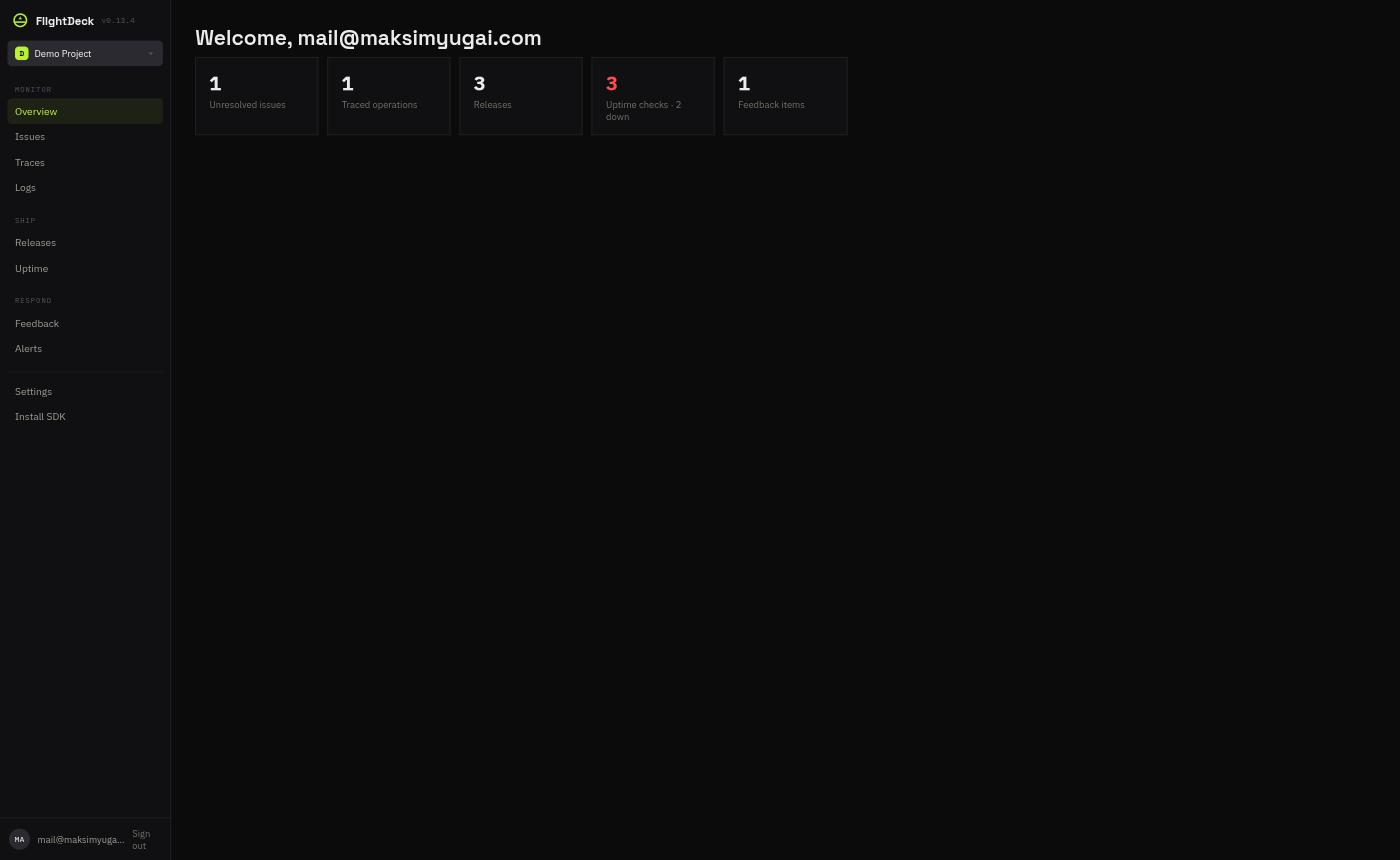
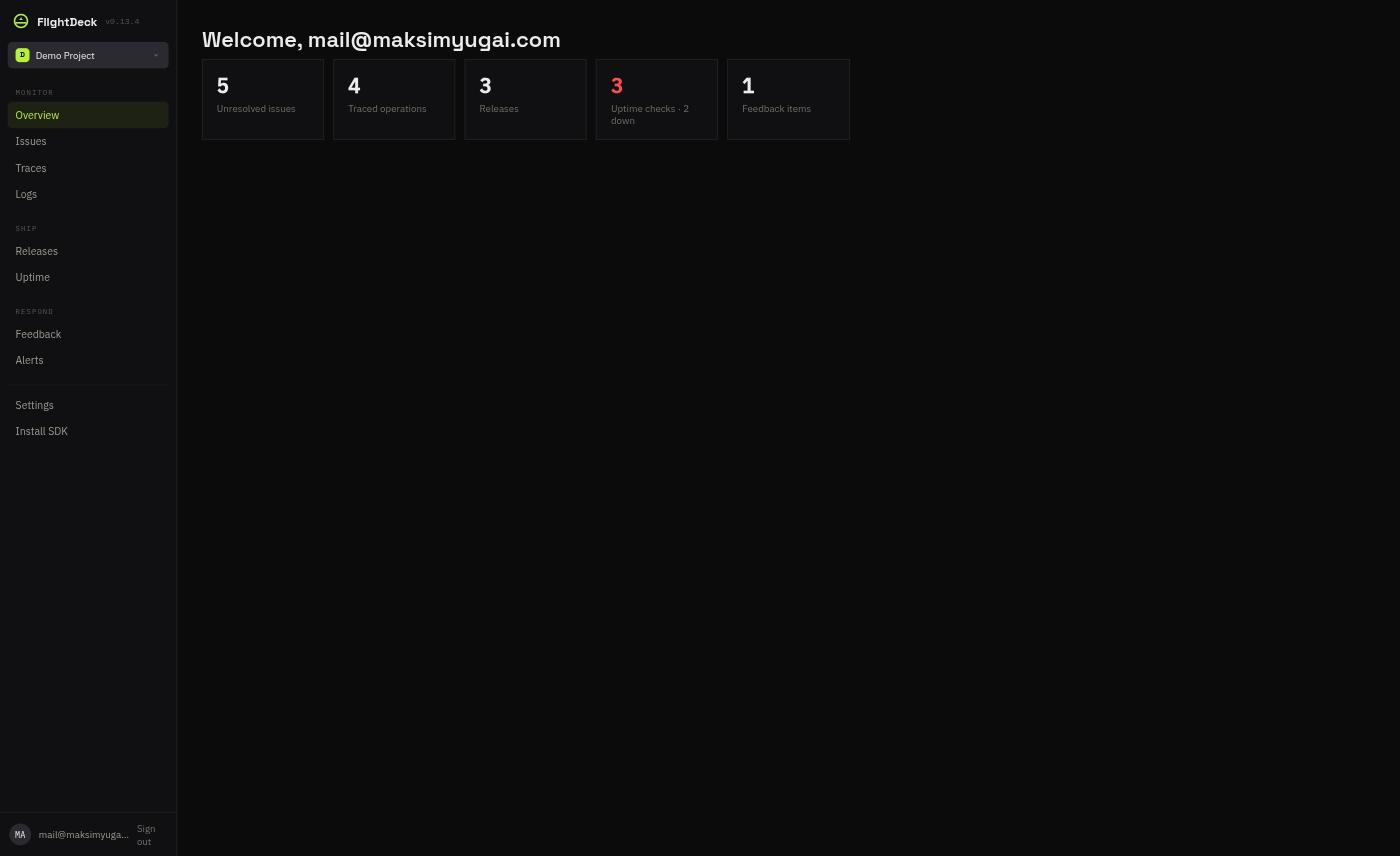
docs: refresh screenshots with richer demo data, add Issues/Traces shots
Seeded the Demo Project with realistic sample errors and transactions via
the real envelope ingest API (not fake frontend copy, not direct DB writes)
so the screenshots show the product actually grouping/aggregating real
data, not a near-empty dashboard. Expanded from 2 to 4 screenshots
(Overview, Issues, Traces list, Trace waterfall) in a 2x2 grid.

diff --git a/README.md b/README.md
@@ -20,9 +20,11 @@ Cloudflare Access.
 
 ## Screenshots
 
-| Overview                                                                       | Trace waterfall                                                                    |
+| Overview                                                                       | Issues                                                                             |
 | ------------------------------------------------------------------------------ | ---------------------------------------------------------------------------------- |
-| <img src="docs/screenshots/overview.jpg" width="420" alt="Dashboard overview"> | <img src="docs/screenshots/trace-waterfall.jpg" width="420" alt="Trace waterfall"> |
+| <img src="docs/screenshots/overview.jpg" width="420" alt="Dashboard overview"> | <img src="docs/screenshots/issues.jpg" width="420" alt="Issues">                   |
+| **Traces**                                                                     | **Trace waterfall**                                                                |
+| <img src="docs/screenshots/traces.jpg" width="420" alt="Traces">               | <img src="docs/screenshots/trace-waterfall.jpg" width="420" alt="Trace waterfall"> |
 
 ## Contents
 
